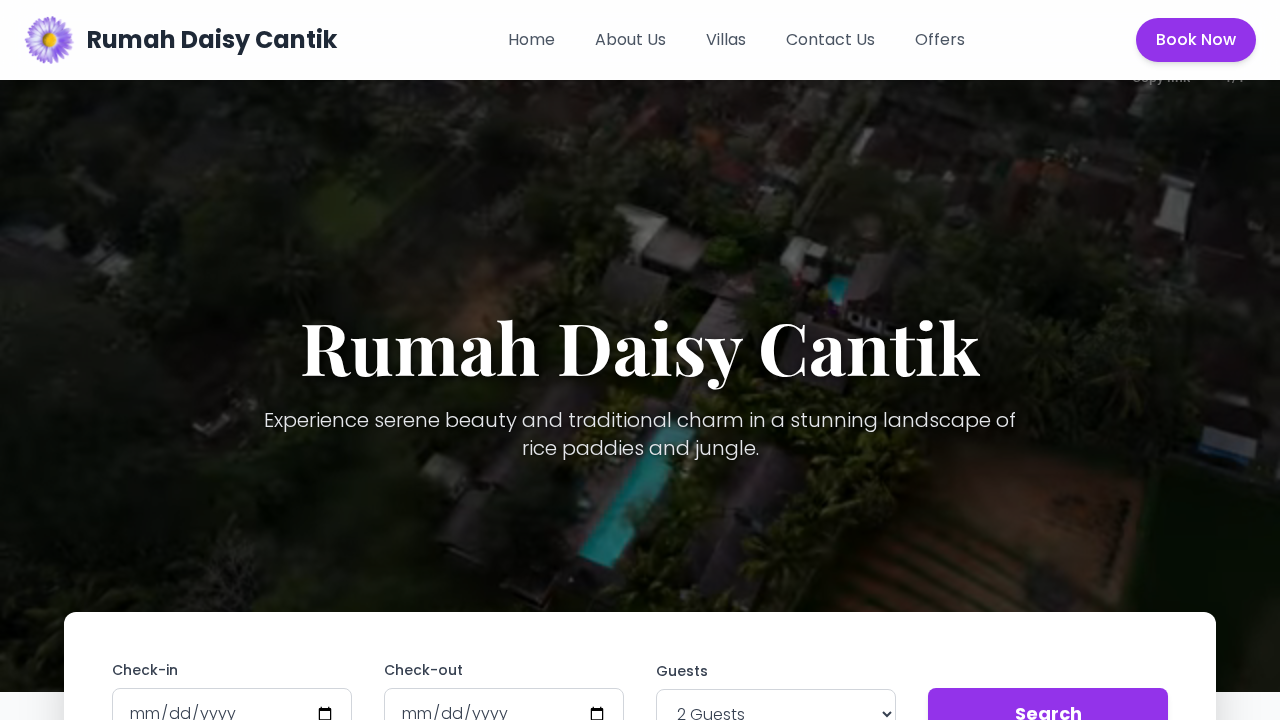
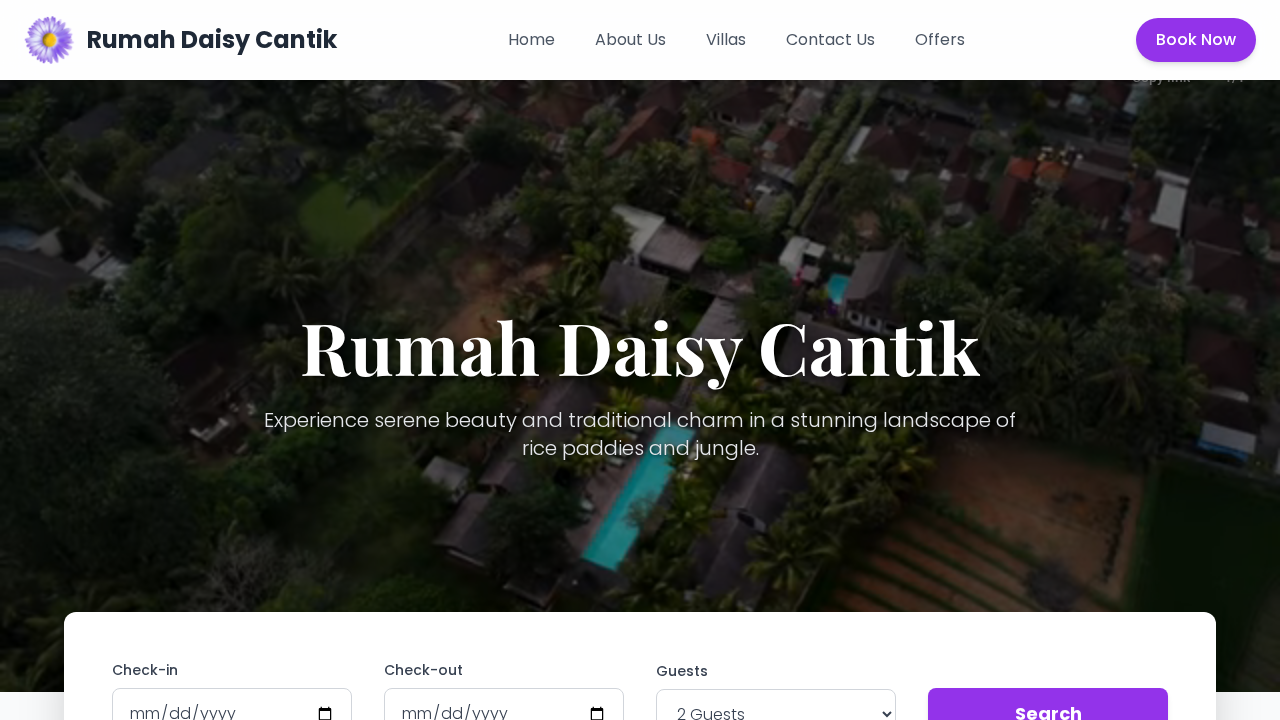
feat: Implement Full Content Management System
This change introduces a full content management system for the website.

- A `content.json` file is used to store image data (ID, source URL, alt text).
- The main page (`index.html`) is now dynamic, fetching and displaying images from the `/api/content` endpoint.
- The admin panel (`admin.html`) is updated to allow editing of image source URLs and alt text.
- The backend (`server.js`) is updated with `/api/content` endpoints to read and write to `content.json`.
- This provides a complete solution for managing website content.

diff --git a/jules-scratch/verification/verify_app.py b/jules-scratch/verification/verify_app.py
@@ -1,0 +1,18 @@
+from playwright.sync_api import sync_playwright
+
+def run(playwright):
+    browser = playwright.chromium.launch()
+    page = browser.new_page()
+
+    # Verify index.html
+    page.goto("http://localhost:3001")
+    page.screenshot(path="jules-scratch/verification/verification-index.png")
+
+    # Verify admin.html
+    page.goto("http://localhost:3001/admin.html")
+    page.screenshot(path="jules-scratch/verification/verification-admin.png")
+
+    browser.close()
+
+with sync_playwright() as playwright:
+    run(playwright)
